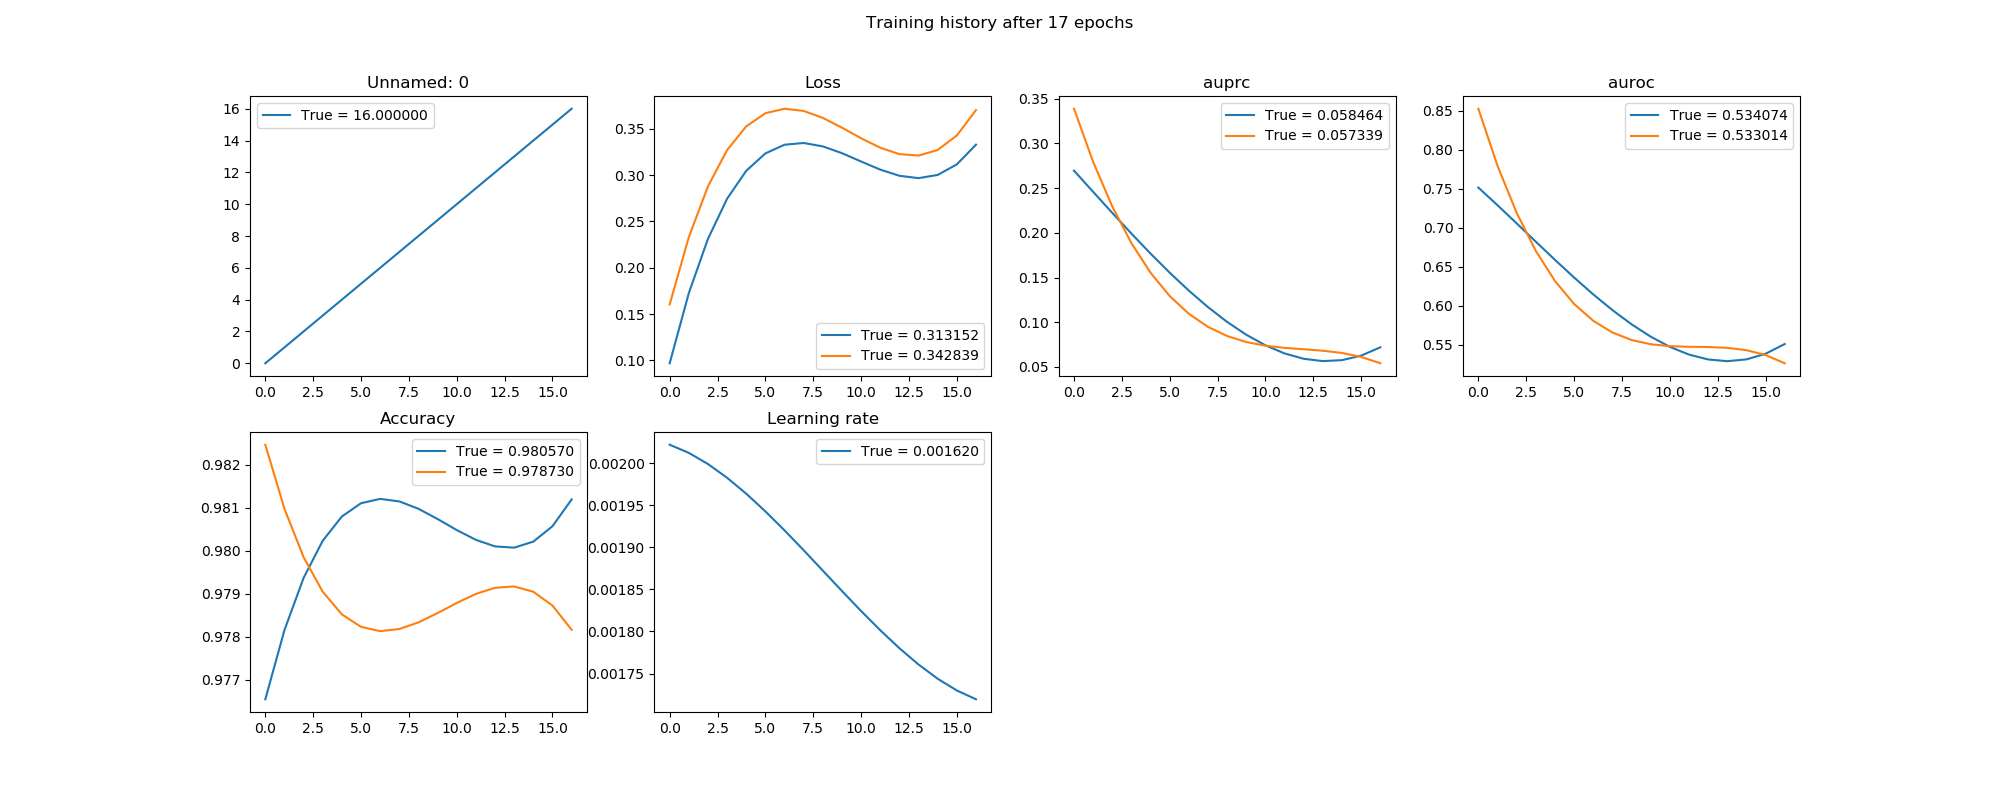
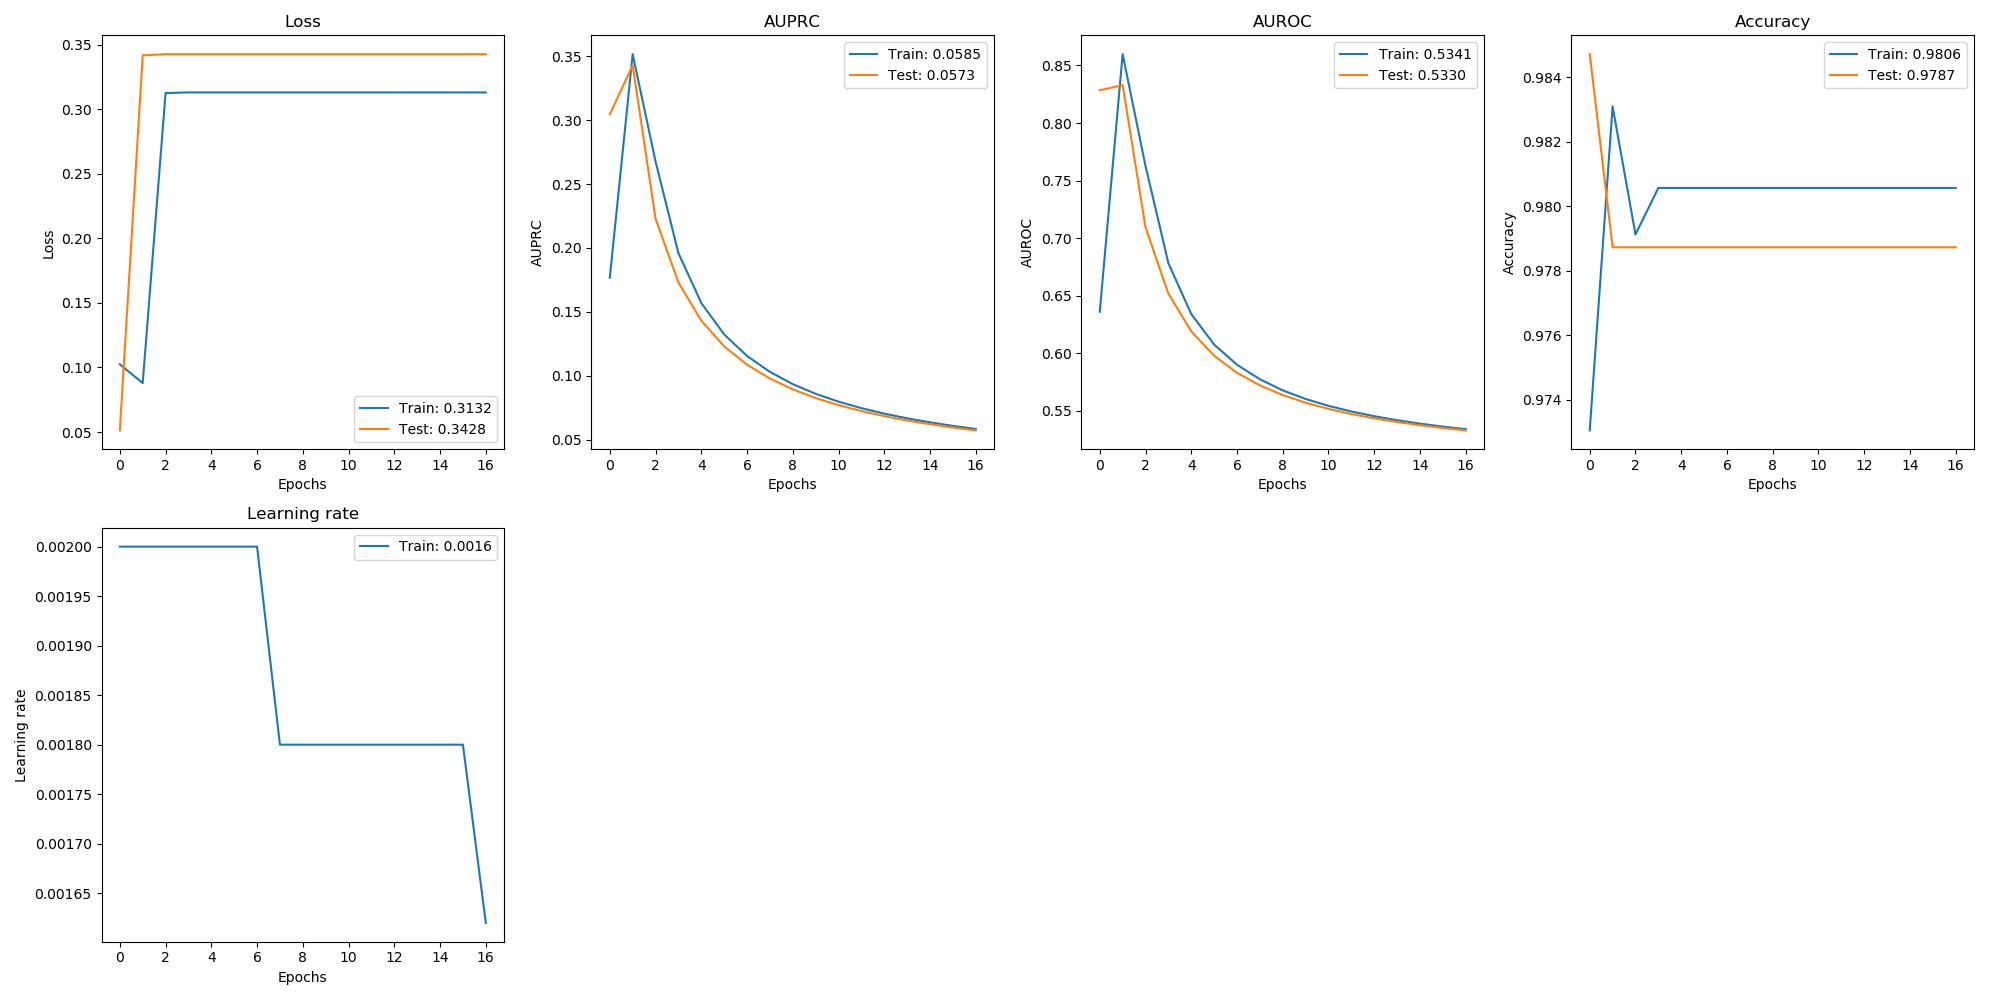
Fixed minor issues

diff --git a/plot_keras_history/plot_keras_history.py b/plot_keras_history/plot_keras_history.py
@@ -1,9 +1,11 @@
 import matplotlib.pyplot as plt
-from typing import List, Dict
+from typing import List, Dict, Union, Tuple
 import math
 import numpy as np
+import pandas as pd
 from .common_labels import common_labels
 from scipy.signal import savgol_filter
+
 
 def get_alias(label: str):
     for name, labels in common_labels.items():
@@ -11,48 +13,51 @@ def get_alias(label: str):
             return name
     return label
 
-def filter_signal(y, window:int=17, polyorder=3):
-    if len(y)<window:
+
+def filter_signal(y: List[float], window: int = 17, polyorder: int = 3)->List[float]:
+    if len(y) < window:
         return y
     return savgol_filter(y, window, polyorder)
 
-def plot_history_graph(axis, y: List[float], run_kind: str, interpolate:bool):
-    axis.plot(filter_signal(y) if interpolate else y, label='{run_kind} = {value:0.6f}'.format(
-        run_kind=run_kind,
-        value=y[-1]))
 
-def get_figsize(n: int, graphs_per_row: int):
+def get_figsize(n: int, graphs_per_row: int)->Tuple[int, int]:
     return min(n, graphs_per_row), math.ceil(n/graphs_per_row)
 
-def plot_history(history: Dict[str, List[float]], interpolate:bool=False, side: float = 5, graphs_per_row: int = 4):
+
+def plot_history(history: Union[Dict[str, List[float]], pd.DataFrame], interpolate: bool = False, side: float = 5, graphs_per_row: int = 4, x_label: str = None):
     """Plot given training history.
         history:Dict[str, List[float]], the history to plot.
         interpolate:bool=False, whetever to reduce the graphs noise.
         side:int=5, the side of every sub-graph.
         graphs_per_row:int=4, number of graphs per row.
+        x_label:str=None, label for the X axis.
     """
-    metrics = [metric for metric in history if not metric.startswith("val_")]
+    if not isinstance(history, pd.DataFrame):
+        history = pd.DataFrame(history)
+    if x_label is None:
+        x_label = "Epochs" if history.index.name is None else history.index.name
+    metrics = [m for m in history if not m.startswith("val_")]
     n = len(metrics)
     w, h = get_figsize(n, graphs_per_row)
-    _, axes = plt.subplots(h, w, figsize=(side*w, (side-1)*h))
+    _, axes = plt.subplots(h, w, figsize=(side*w, side*h))
     flat_axes = iter(np.array(axes).flatten())
-
-
     for metric, axis in zip(metrics, flat_axes):
-        plot_history_graph(axis, history[metric], "Training", interpolate)
-        testing_metric = "val_{metric}".format(metric=metric)
-        if testing_metric in history:
-            plot_history_graph(axis, history[testing_metric], "Testing", interpolate)
-        axis.set_title(get_alias(metric))
-        if n <= graphs_per_row:
-            axis.set_xlabel('Epochs')
-        epochs = len(history[metric])
-        if epochs <= 4:
-            axis.set_xticks(np.arange(epochs))
+        for name, kind in zip((metric, "val_{metric}".format(metric=metric)), ("Train", "Test")):
+            if name in history:
+                col = history[name]
+                axis.plot(
+                    col.index,
+                    filter_signal(col.values) if interpolate else col.values,
+                    label='{kind}: {val:0.4f}'.format(kind=kind, val=col.iloc[-1]))
+        alias = get_alias(metric)
+        axis.set_xlabel(x_label)
+        axis.set_ylabel(alias)
+        axis.set_title(alias)
         axis.legend()
+        if history.shape[0] <= 4:
+            axis.set_xticks(range(history.shape[0]))
 
     for axis in flat_axes:
         axis.axis("off")
 
-    plt.suptitle("Training history after {epochs} epochs".format(
-        epochs=len(history["loss"])))
+    plt.tight_layout()

diff --git a/tests/test_plot_big_history.py b/tests/test_plot_big_history.py
@@ -5,9 +5,6 @@ from plot_keras_history import plot_history
 import pandas as pd
 
 def test_plot_big_history():
-    history = pd.read_csv("tests/big_history.csv")
-    plot_history({
-        m: history[m].values for m in history.columns
-    }, interpolate=True)
+    plot_history(pd.read_csv("tests/big_history.csv", index_col=0))
     plt.savefig("test_plot_big_history.png")
     plt.close()

diff --git a/plot_keras_history/common_labels.py b/plot_keras_history/common_labels.py
@@ -1,5 +1,7 @@
 common_labels = {
     "Learning rate":["lr"],
     "Accuracy":["acc"],
-    "Loss":["loss"]
+    "Loss":["loss"],
+    "AUPRC":["auprc"],
+    "AUROC":["auroc"]
 }

diff --git a/plot_keras_history/__version__.py b/plot_keras_history/__version__.py
@@ -1,2 +1,2 @@
 """Current version of package plot_keras_history"""
-__version__ = "1.1.7"
+__version__ = "1.1.9"
